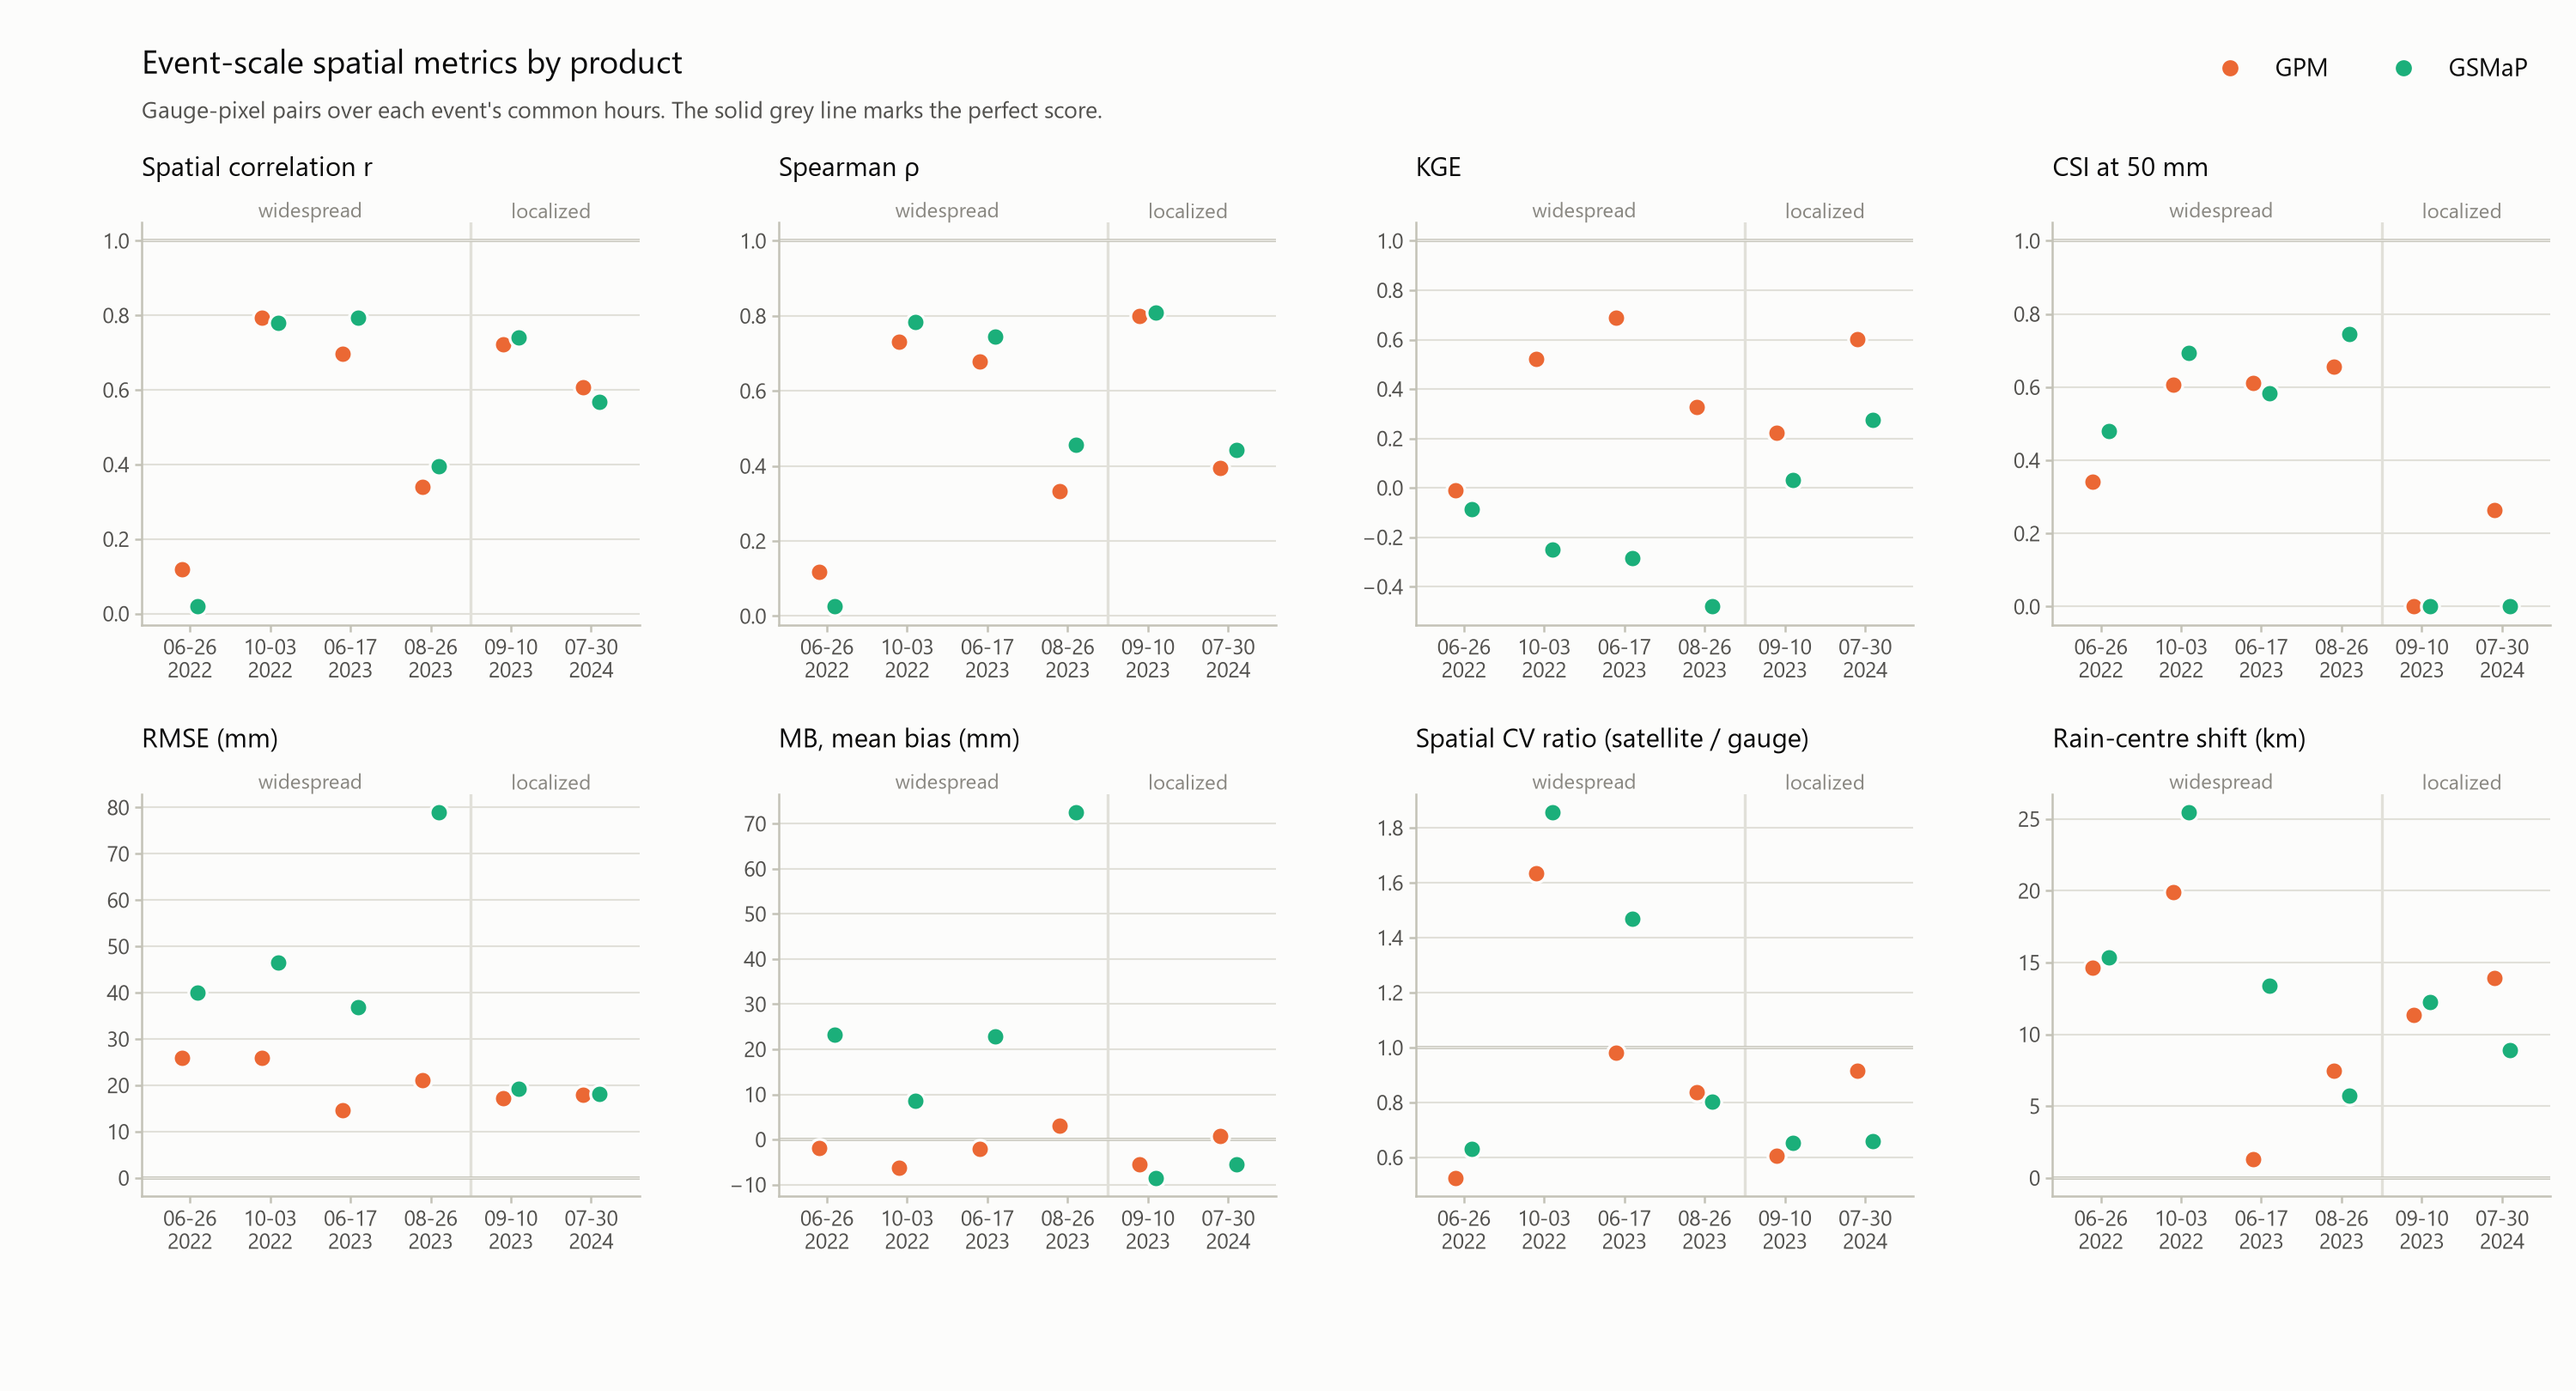
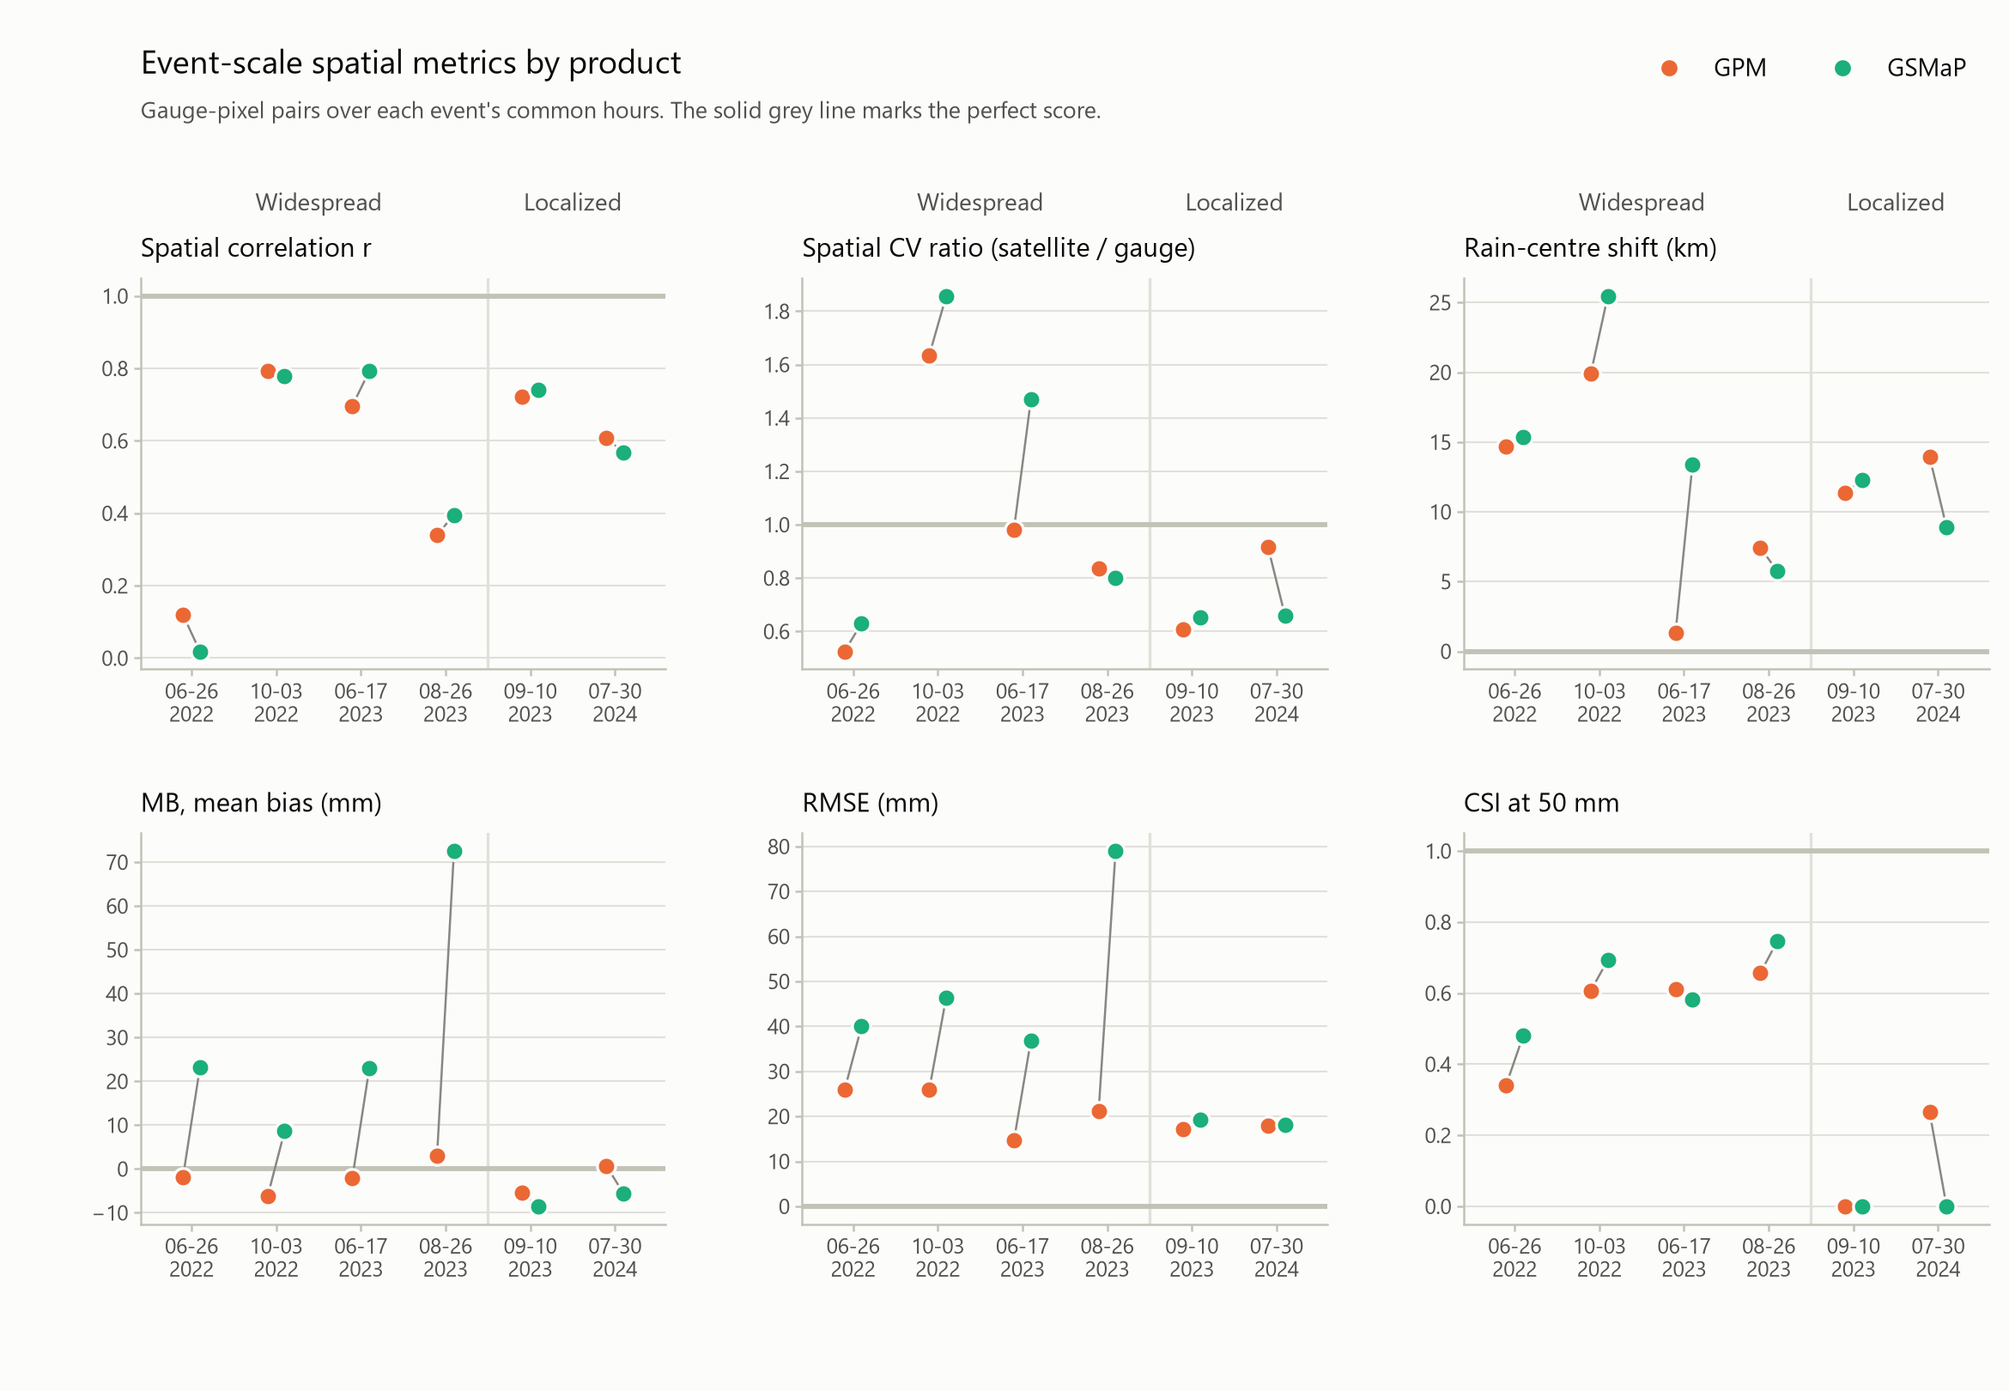
Trim the event-metrics figure to six panels and join each event's products
Drop Spearman rho (tracks r) and KGE (a composite of r, bias and variability).
Label Widespread/Localized once above the top row, thicken the ideal-value
line and draw it above the gridlines, and connect each event's product points.

diff --git a/scripts/plot_heavy_rain_events.py b/scripts/plot_heavy_rain_events.py
@@ -439,49 +439,55 @@ def fig4_scatter(events, stations, metrics) -> None:
     save(fig, "fig4_event_scatter")
 
 
+# Top row: where and how variable the rain is; bottom row: how much, and the heavy-rain hits.
+# Spearman rho (tracks r) and KGE (a composite of r, bias and variability) are left out as redundant.
 METRIC_PANELS = [
     ("r", "Spatial correlation r", 1.0),
-    ("rho", "Spearman ρ", 1.0),
-    ("KGE", "KGE", 1.0),
-    ("CSI_50", "CSI at 50 mm", 1.0),
-    ("RMSE", "RMSE (mm)", 0.0),
-    ("Bias", "MB, mean bias (mm)", 0.0),
     ("cv_ratio", "Spatial CV ratio (satellite / gauge)", 1.0),
     ("centroid_shift_km", "Rain-centre shift (km)", 0.0),
+    ("Bias", "MB, mean bias (mm)", 0.0),
+    ("RMSE", "RMSE (mm)", 0.0),
+    ("CSI_50", "CSI at 50 mm", 1.0),
 ]
 
 
 def fig5_metric_summary(events, metrics) -> None:
-    fig, axes = plt.subplots(2, 4, figsize=(10.0, 5.4))
-    fig.subplots_adjust(left=0.055, right=0.99, top=0.84, bottom=0.14, wspace=0.28, hspace=0.42)
+    fig, axes = plt.subplots(2, 3, figsize=(7.8, 5.4))
+    fig.subplots_adjust(left=0.07, right=0.99, top=0.80, bottom=0.12, wspace=0.26, hspace=0.42)
     x = np.arange(len(events))
     offsets = {p: 0.2 * (k - (len(PRODUCTS) - 1) / 2) for k, p in enumerate(PRODUCTS)}
     n_widespread = sum(event["type"] == "widespread" for event in events)
     tick_labels = [f"{event['day'][5:]}\n{event['day'][:4]}" for event in events]
     for ax, (key, title, ideal) in zip(axes.flat, METRIC_PANELS):
         ax.grid(axis="y", color=GRID, linewidth=0.5, zorder=0)
-        ax.axhline(ideal, color=AXIS, linewidth=0.9, zorder=1)
+        ax.axhline(ideal, color=AXIS, linewidth=1.4, zorder=1.8)  # above the gridlines (1.5)
         ax.axvline(n_widespread - 0.5, color=GRID, linewidth=0.8, zorder=0)
+        values = {p: [metrics[(event["day"], p, WINDOW)][key] for event in events] for p in PRODUCTS}
+        # Thin line joining each event's products, drawn under the points.
+        for i in x:
+            ax.plot([i + offsets[p] for p in PRODUCTS], [values[p][i] for p in PRODUCTS],
+                    color=MUTED, linewidth=0.6, zorder=2)
         for product in PRODUCTS:
-            values = [metrics[(event["day"], product, WINDOW)][key] for event in events]
-            ax.scatter(x + offsets[product], values, s=26, color=PRODUCT_COLORS[product],
+            ax.scatter(x + offsets[product], values[product], s=26, color=PRODUCT_COLORS[product],
                        edgecolors=SURFACE, linewidths=0.8, zorder=3)
-        ax.set_title(title, loc="left", fontsize=7.5, pad=13)
+        ax.set_title(title, loc="left", fontsize=7.5, pad=6)
         ax.set_xticks(x)
         ax.set_xticklabels(tick_labels, fontsize=6)
         ax.set_xlim(-0.6, len(events) - 0.4)
         ax.tick_params(length=2, pad=1.5, labelsize=6)
         for spine in ("top", "right"):
             ax.spines[spine].set_visible(False)
-        ax.text((n_widespread - 1) / 2, 1.0, "widespread", transform=ax.get_xaxis_transform(),
-                ha="center", va="bottom", fontsize=5.8, color=MUTED)
-        ax.text(n_widespread + (len(events) - n_widespread - 1) / 2, 1.0, "localized",
-                transform=ax.get_xaxis_transform(), ha="center", va="bottom", fontsize=5.8, color=MUTED)
+    # Event-group labels once, above the top row of panels.
+    for ax in axes[0]:
+        for text, first, last in (("Widespread", 0, n_widespread - 1),
+                                  ("Localized", n_widespread, len(events) - 1)):
+            ax.text((first + last) / 2, 1.16, text, transform=ax.get_xaxis_transform(),
+                    ha="center", va="bottom", fontsize=6.8, color=INK_SECONDARY)
     handles = [Line2D([], [], linestyle="none", marker="o", markersize=5.5, markerfacecolor=PRODUCT_COLORS[p],
                       markeredgecolor=SURFACE, label=p) for p in PRODUCTS]
     fig.legend(handles=handles, loc="upper right", ncol=len(PRODUCTS), frameon=False, fontsize=7, bbox_to_anchor=(0.99, 0.975))
-    fig.suptitle("Event-scale spatial metrics by product", x=0.055, ha="left", fontsize=9, y=0.965)
-    fig.text(0.055, 0.915, "Gauge-pixel pairs over each event's common hours. The solid grey line marks "
+    fig.suptitle("Event-scale spatial metrics by product", x=0.07, ha="left", fontsize=9, y=0.965)
+    fig.text(0.07, 0.915, "Gauge-pixel pairs over each event's common hours. The solid grey line marks "
              "the perfect score.", ha="left", fontsize=6.5, color=INK_SECONDARY)
     save(fig, "fig5_metric_summary")
 
